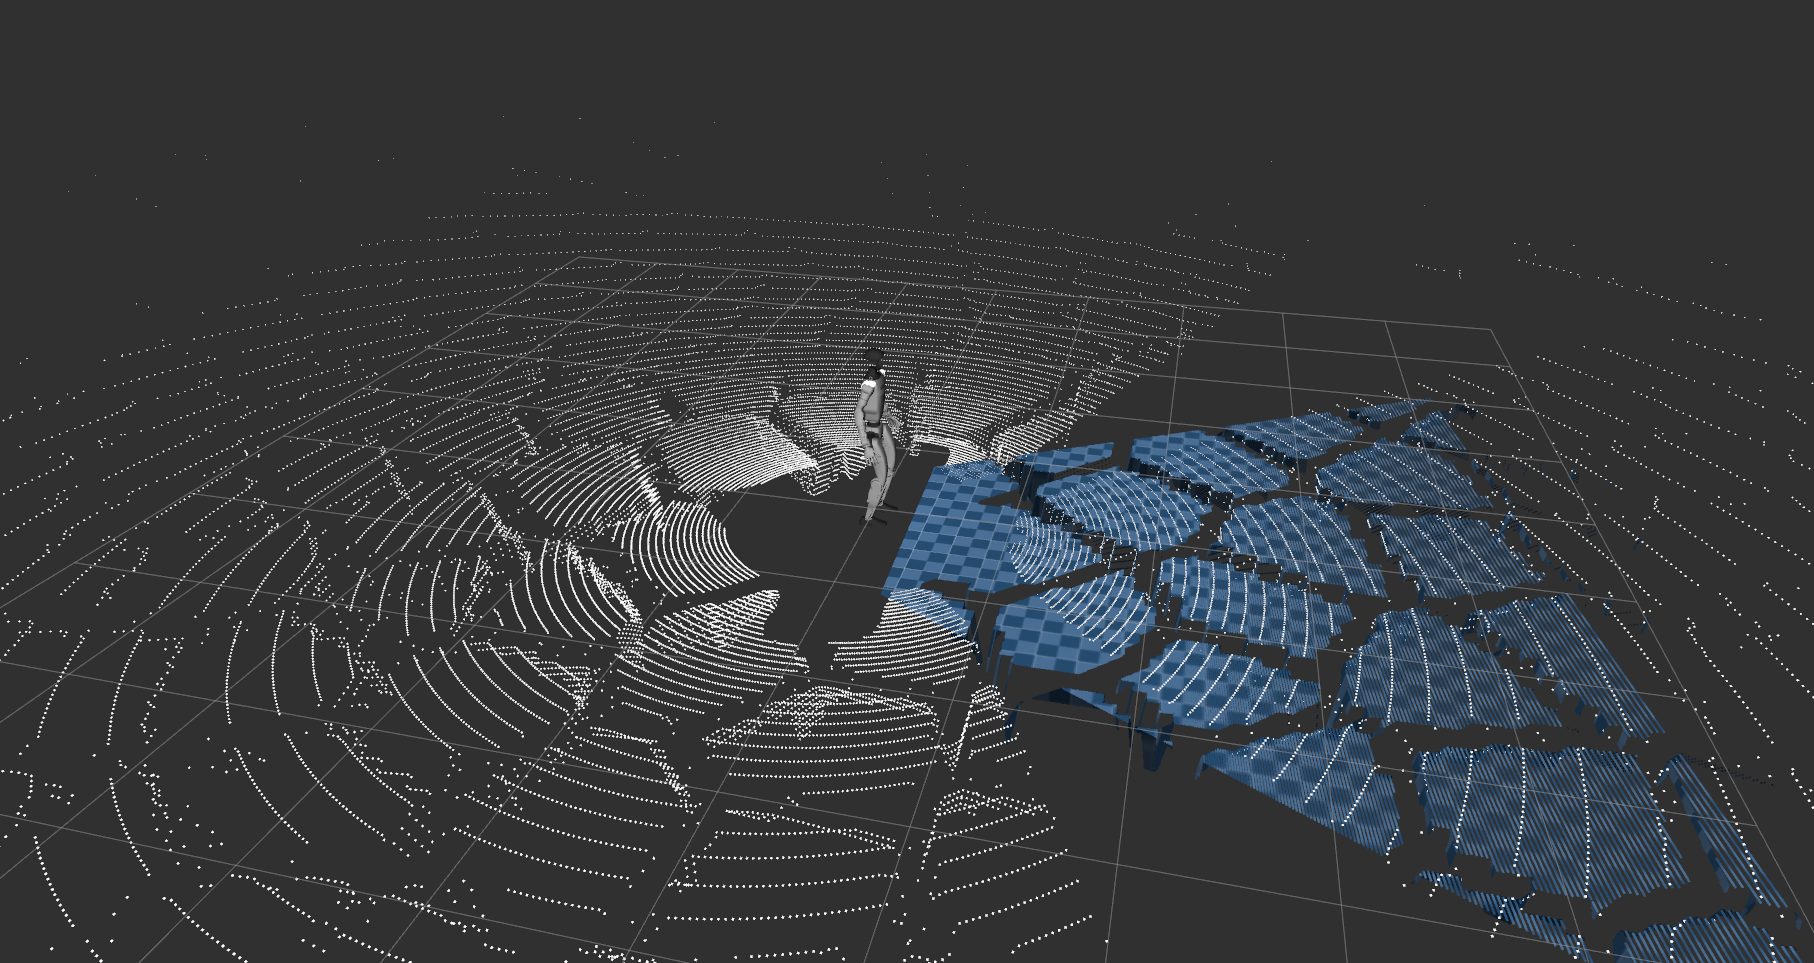
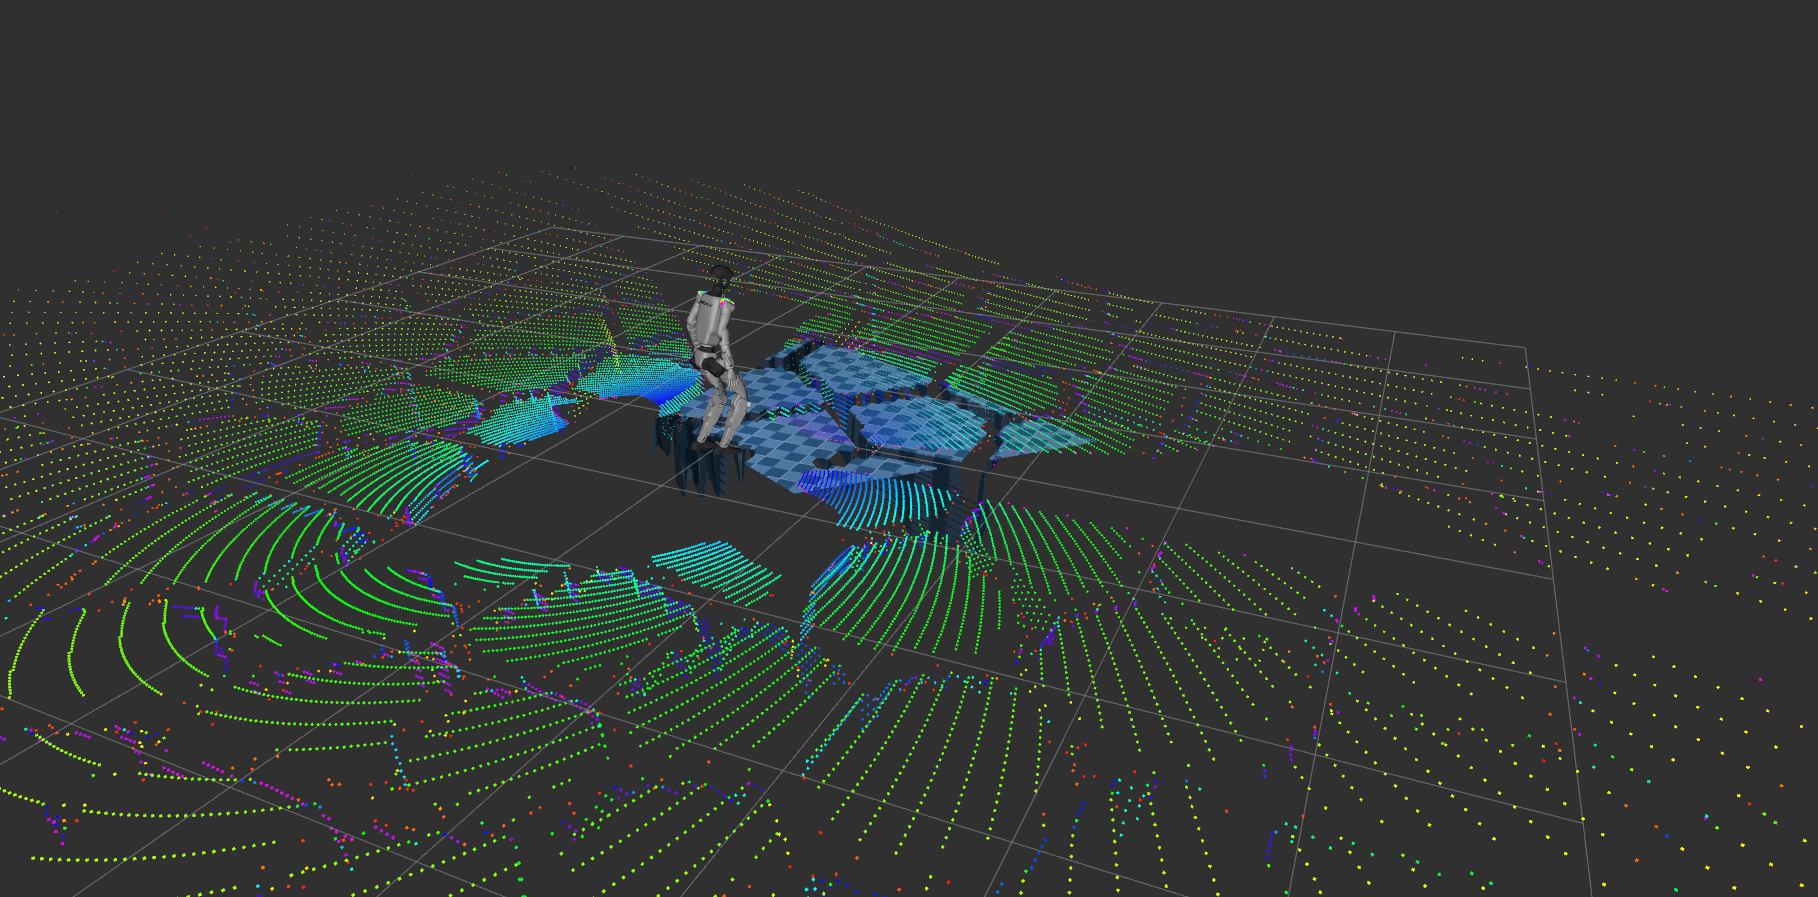
Merge pull request #18 from dfki-ric/jazzy_lidar
added intensity to lidar

Pull request: added intensity to lidar

diff --git a/mujoco_ros2_control/src/mujoco_gl_lidar.cpp b/mujoco_ros2_control/src/mujoco_gl_lidar.cpp
@@ -302,7 +302,8 @@ void MujocoGLLidar::render_depth() {
     glfwPollEvents();
 }
 
-bool MujocoGLLidar::sample_beam(size_t beam_index, double &range) {
+bool MujocoGLLidar::sample_beam(size_t beam_index, double &range,
+                                double *cos_incidence) {
     const BeamSample &b = beam_samples_[beam_index];
 
     // Slice-local -> tilted-camera-local
@@ -363,7 +364,6 @@ bool MujocoGLLidar::sample_beam(size_t beam_index, double &range) {
 
     if (valid_count == 0) return false;
 
-
     double raw;
 
     if (valid_count == 4 && (dmax - dmin) <= depth_threshold_) {
@@ -394,6 +394,43 @@ bool MujocoGLLidar::sample_beam(size_t beam_index, double &range) {
         (zfar_frac_ - raw * (zfar_frac_ - znear_frac_));
 
     range = linear_z / cz;
+
+    if (cos_incidence) {
+        // Estimate surface normal from the depth gradient at the sample.
+        // Only trustworthy when the four corners agree (same surface, no
+        // depth edge); fall back to 1.0 otherwise.
+        double cos_i = 1.0;
+        if (valid_count == 4 && (dmax - dmin) <= depth_threshold_) {
+            auto unproject = [&](int uu, int vv_gl, double raw_d) {
+                const double z = znear_frac_ * zfar_frac_ * extent_ /
+                                 (zfar_frac_ - raw_d * (zfar_frac_ - znear_frac_));
+                const double v_top_pix = (render_height_ - 1) - vv_gl;
+                return std::array<double, 3>{
+                    (uu - cx_) / f_ * z,
+                    (v_top_pix - cy_) / f_ * z,
+                    z};
+            };
+            const auto P00 = unproject(u0, v0, d00);
+            const auto P10 = unproject(u1, v0, d10);
+            const auto P01 = unproject(u0, v1, d01);
+
+            const std::array<double, 3> du{
+                P10[0] - P00[0], P10[1] - P00[1], P10[2] - P00[2]};
+            const std::array<double, 3> dv{
+                P01[0] - P00[0], P01[1] - P00[1], P01[2] - P00[2]};
+            const std::array<double, 3> n{
+                du[1] * dv[2] - du[2] * dv[1],
+                du[2] * dv[0] - du[0] * dv[2],
+                du[0] * dv[1] - du[1] * dv[0]};
+
+            const double nlen = std::sqrt(n[0]*n[0] + n[1]*n[1] + n[2]*n[2]);
+            const double blen = std::sqrt(cx*cx + cy*cy + cz*cz);
+            if (nlen > 1e-12 && blen > 1e-12) {
+                cos_i = std::abs(cx*n[0] + cy*n[1] + cz*n[2]) / (nlen * blen);
+            }
+        }
+        *cos_incidence = cos_i;
+    }
     return true;
 }
 
@@ -411,18 +448,16 @@ void MujocoGLLidar::publish_scan(const rclcpp::Time &stamp) {
     msg.range_min = static_cast<float>(range_min_);
     msg.range_max = static_cast<float>(range_max_);
     msg.ranges.resize(h_samples_);
+    msg.intensities.resize(h_samples_);
 
     const float invalid = std::numeric_limits<float>::infinity();
     for (int i = 0; i < h_samples_; ++i) {
-        double range;
-        if (!sample_beam(static_cast<size_t>(i), range)) {
-            msg.ranges[i] = invalid;
-            continue;
-        }
-        if (noise_stddev_ > 0.0) range += noise_dist_(rng_);
-        msg.ranges[i] = (range >= range_min_ && range <= range_max_)
-                            ? static_cast<float>(range)
-                            : invalid;
+        double range, cos_i;
+        const bool hit = sample_beam(static_cast<size_t>(i), range, &cos_i);
+        if (hit && noise_stddev_ > 0.0) range += noise_dist_(rng_);
+        const bool in_range = hit && range >= range_min_ && range <= range_max_;
+        msg.ranges[i]      = in_range ? static_cast<float>(range) : invalid;
+        msg.intensities[i] = in_range ? static_cast<float>(cos_i) : 0.0f;
     }
     scan_pub_->publish(msg);
 }
@@ -437,31 +472,35 @@ void MujocoGLLidar::publish_cloud(const rclcpp::Time &stamp) {
     msg.is_bigendian = false;
 
     sensor_msgs::PointCloud2Modifier mod(msg);
-    mod.setPointCloud2FieldsByString(1, "xyz");
+    mod.setPointCloud2Fields(
+        4,
+        "x",         1, sensor_msgs::msg::PointField::FLOAT32,
+        "y",         1, sensor_msgs::msg::PointField::FLOAT32,
+        "z",         1, sensor_msgs::msg::PointField::FLOAT32,
+        "intensity", 1, sensor_msgs::msg::PointField::FLOAT32);
     mod.resize(static_cast<size_t>(v_samples_) * h_samples_);
 
     sensor_msgs::PointCloud2Iterator<float> ix(msg, "x");
     sensor_msgs::PointCloud2Iterator<float> iy(msg, "y");
     sensor_msgs::PointCloud2Iterator<float> iz(msg, "z");
+    sensor_msgs::PointCloud2Iterator<float> ii(msg, "intensity");
 
     const float nanf = std::numeric_limits<float>::quiet_NaN();
-    for (size_t k = 0; k < beam_dirs_local_.size(); ++k, ++ix, ++iy, ++iz) {
-        const auto &dl = beam_dirs_local_[k];
-        double range;
-        if (!sample_beam(k, range)) {
-            *ix = nanf; *iy = nanf; *iz = nanf;
-            continue;
-        }
-        if (noise_stddev_ > 0.0) range += noise_dist_(rng_);
-        if (range < range_min_ || range > range_max_) {
-            *ix = nanf; *iy = nanf; *iz = nanf;
+    for (size_t k = 0; k < beam_dirs_local_.size();
+         ++k, ++ix, ++iy, ++iz, ++ii) {
+        double range, cos_i;
+        const bool hit = sample_beam(k, range, &cos_i);
+        if (hit && noise_stddev_ > 0.0) range += noise_dist_(rng_);
+        if (!hit || range < range_min_ || range > range_max_) {
+            *ix = nanf; *iy = nanf; *iz = nanf; *ii = nanf;
             continue;
         }
         // Beam endpoint in site (lidar) frame.
+        const auto &dl = beam_dirs_local_[k];
         const double ps0 = dl[0] * range;
         const double ps1 = dl[1] * range;
         const double ps2 = dl[2] * range;
-        
+
         *ix = static_cast<float>(site_pos_in_body_[0] +
                                  site_mat_in_body_[0] * ps0 +
                                  site_mat_in_body_[1] * ps1 +
@@ -474,6 +513,7 @@ void MujocoGLLidar::publish_cloud(const rclcpp::Time &stamp) {
                                  site_mat_in_body_[6] * ps0 +
                                  site_mat_in_body_[7] * ps1 +
                                  site_mat_in_body_[8] * ps2);
+        *ii = static_cast<float>(cos_i);
     }
     cloud_pub_->publish(msg);
 }

diff --git a/mujoco_ros2_control/include/mujoco_gl_lidar/mujoco_gl_lidar.hpp b/mujoco_ros2_control/include/mujoco_gl_lidar/mujoco_gl_lidar.hpp
@@ -63,7 +63,8 @@ public:
 
 private:
     void render_depth();
-    bool sample_beam(size_t beam_index, double &range);
+    bool sample_beam(size_t beam_index, double &range,
+                     double *cos_incidence = nullptr);
     void publish_scan(const rclcpp::Time &stamp);
     void publish_cloud(const rclcpp::Time &stamp);
 